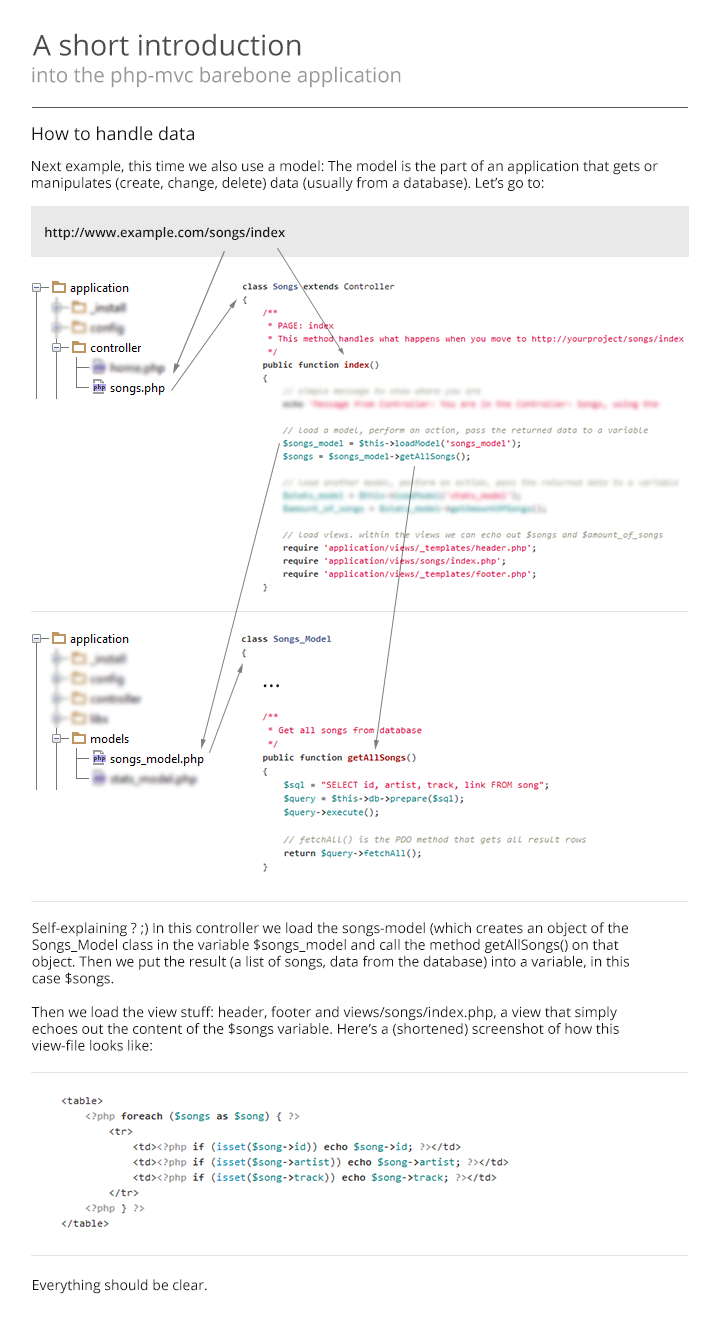
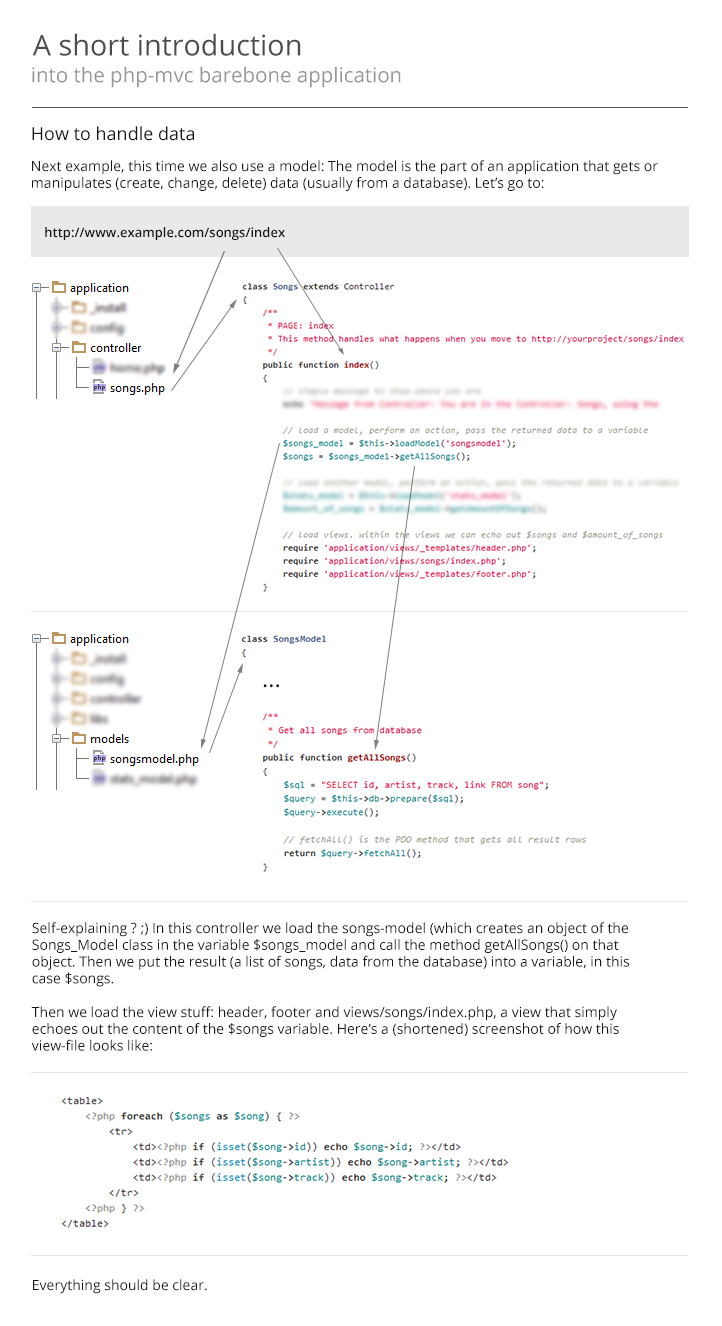
renamed model class names in StudlyCaps-writing to fit PSR-1 coding guidelines. also updated tutorial-documentation with this

diff --git a/application/controller/songs.php b/application/controller/songs.php
@@ -21,10 +21,12 @@ class Songs extends Controller
         echo 'Message from Controller: You are in the Controller: Songs, using the method index().';
 
         // load a model, perform an action, pass the returned data to a variable
+        // NOTE: you can write the model name like "SongsModel" or "songsmodel", both will work
         $songs_model = $this->loadModel('SongsModel');
         $songs = $songs_model->getAllSongs();
 
         // load another model, perform an action, pass the returned data to a variable
+        // NOTE: you can write the model name like "StatsModel" or "statsmodel", both will work
         $stats_model = $this->loadModel('StatsModel');
         $amount_of_songs = $stats_model->getAmountOfSongs();
 
